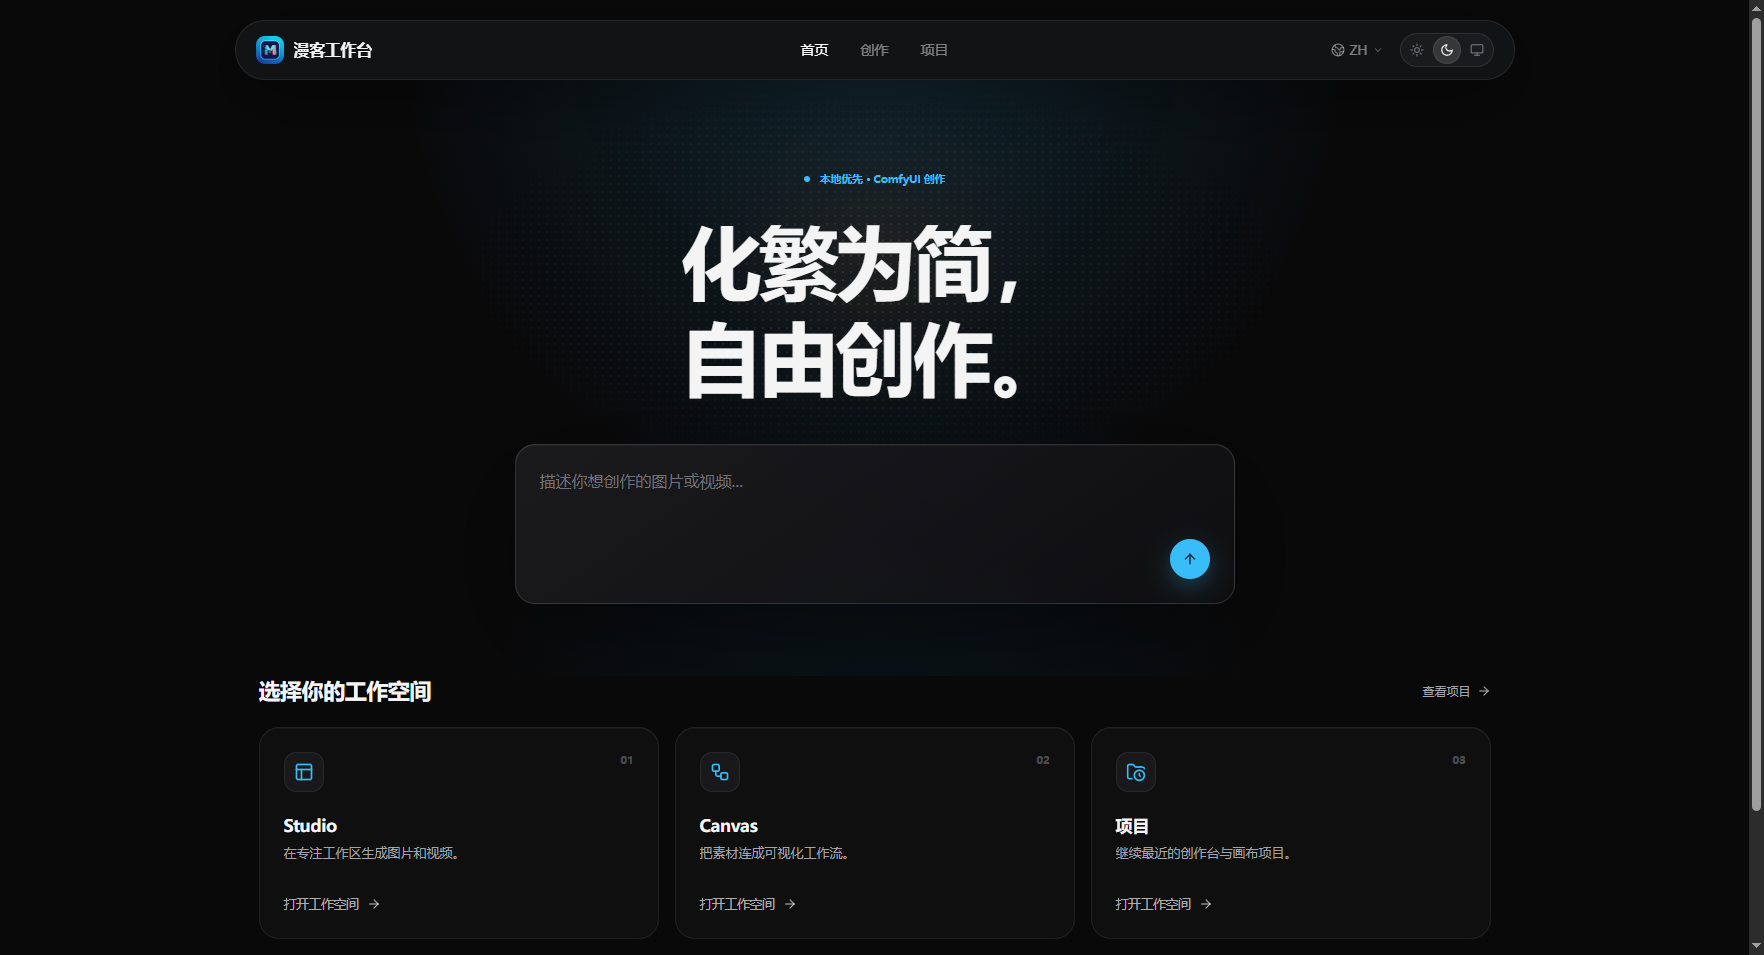
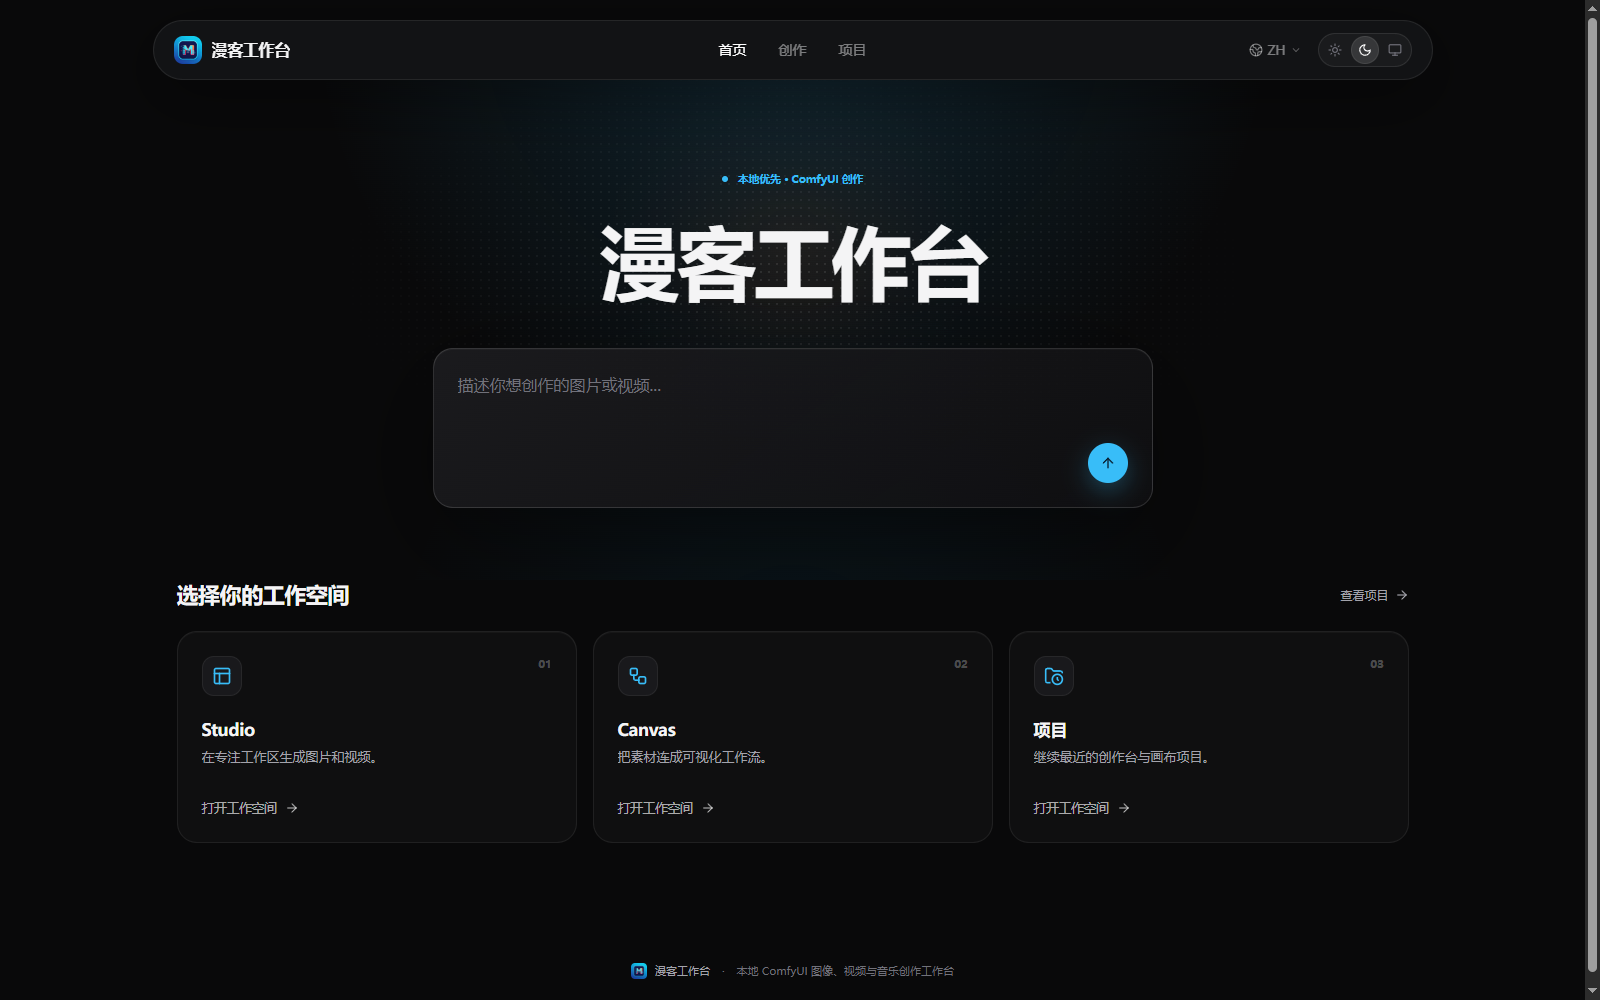
docs: re-shoot every screenshot from the current build
The README's pictures were taken before the landing page, the four entry cards and
the drama canvas existed, so the documentation showed a product that no longer
looks like this one.

All ten UI screenshots re-captured at 1600x1000 against the running build: the new
home page, both themes, the studio empty state with its four entries, a real
generation mid-run and finished, the canvas, the editor, assets and services.

Re-shooting them turned up a real bug the tests could not see: the editor's media
rail is a permanently dark strip (it sits against the video canvas, like the panels
in a NLE) but its text used the themed `ink` token, which flips to near-black in
light mode. The rail was black on black. It now pins its own light tokens in
`.editor-rail`, so it reads correctly in both themes — measured after the fix:
background rgb(23,24,26) with rgb(255,255,255) labels.

The canvas section also described a "top toolbar" for select/pan/zoom; that bar is
at the bottom and carries zoom steps and undo/redo. Copy corrected.

437/437 unit tests, 90/90 on the UI suites that touch these surfaces.

diff --git a/src/styles/globals.css b/src/styles/globals.css
@@ -1042,3 +1042,22 @@ html[data-theme] body {
     animation: none;
   }
 }
+
+/*
+ * The editor's media rail is a permanently dark strip (it sits against the video
+ * canvas, like the panels in a NLE). Its text used the themed `ink` token, so in
+ * light mode it rendered near-black on near-black. Pin the tokens here instead of
+ * flipping the whole rail to a light panel.
+ */
+.editor-rail {
+  --beat-ink: #ffffff;
+  --color-ink: #ffffff;
+  --beat-text-1: #f4f4f5;
+  --beat-text-2: #a3a3ab;
+  --beat-text-3: #71717a;
+  --beat-border: rgba(255, 255, 255, 0.1);
+  --beat-border-strong: rgba(255, 255, 255, 0.18);
+  --beat-surface: #1d1e21;
+  --beat-surface-2: #202124;
+  --beat-control: #24252a;
+}

diff --git a/src/components/editor/video-editor-workspace.tsx b/src/components/editor/video-editor-workspace.tsx
@@ -1563,7 +1563,7 @@ export function VideoEditorWorkspace({
         ))}
 
       <div className="flex min-h-0 flex-1">
-        <aside className="hidden w-[292px] shrink-0 flex-col border-r border-ink/[0.07] bg-[#17181a] lg:flex">
+        <aside className="editor-rail hidden w-[292px] shrink-0 flex-col border-r border-ink/[0.07] bg-[#17181a] lg:flex">
           <div className="flex h-[74px] items-end gap-5 border-b border-ink/[0.07] px-5 pb-3">
             <button
               type="button"

diff --git a/README.md b/README.md
@@ -111,10 +111,10 @@ ComfyUI 很强，但直接用有三个门槛：
 
 无限画布，节点是素材或生成任务，连线表示引用关系。
 
-左侧工具条三件事：**生成节点**（开一张新的生成卡片）、
+左侧竖排工具条三件事：**生成节点**（开一张新的生成卡片）、
 **上传素材**（拖本地文件进来）、**历史素材**（把已生成的成果插回来）。
 
-顶部工具条：选择 / 平移 / 缩放 / 适配全部节点 / 隐藏连接线 / 网格吸附 / 撤销重做。
+底部工具条：选择 / 平移 / 缩小 / 缩放比例 / 放大 / 适配全部节点 / 显示连接线 / 网格吸附 / 撤销 / 重做。
 
 生成卡片打开后是一个完整的编辑器：模型、提示词、尺寸、参考图都在卡片内部，
 生成结果直接落在卡片里，可以继续往下游连。
